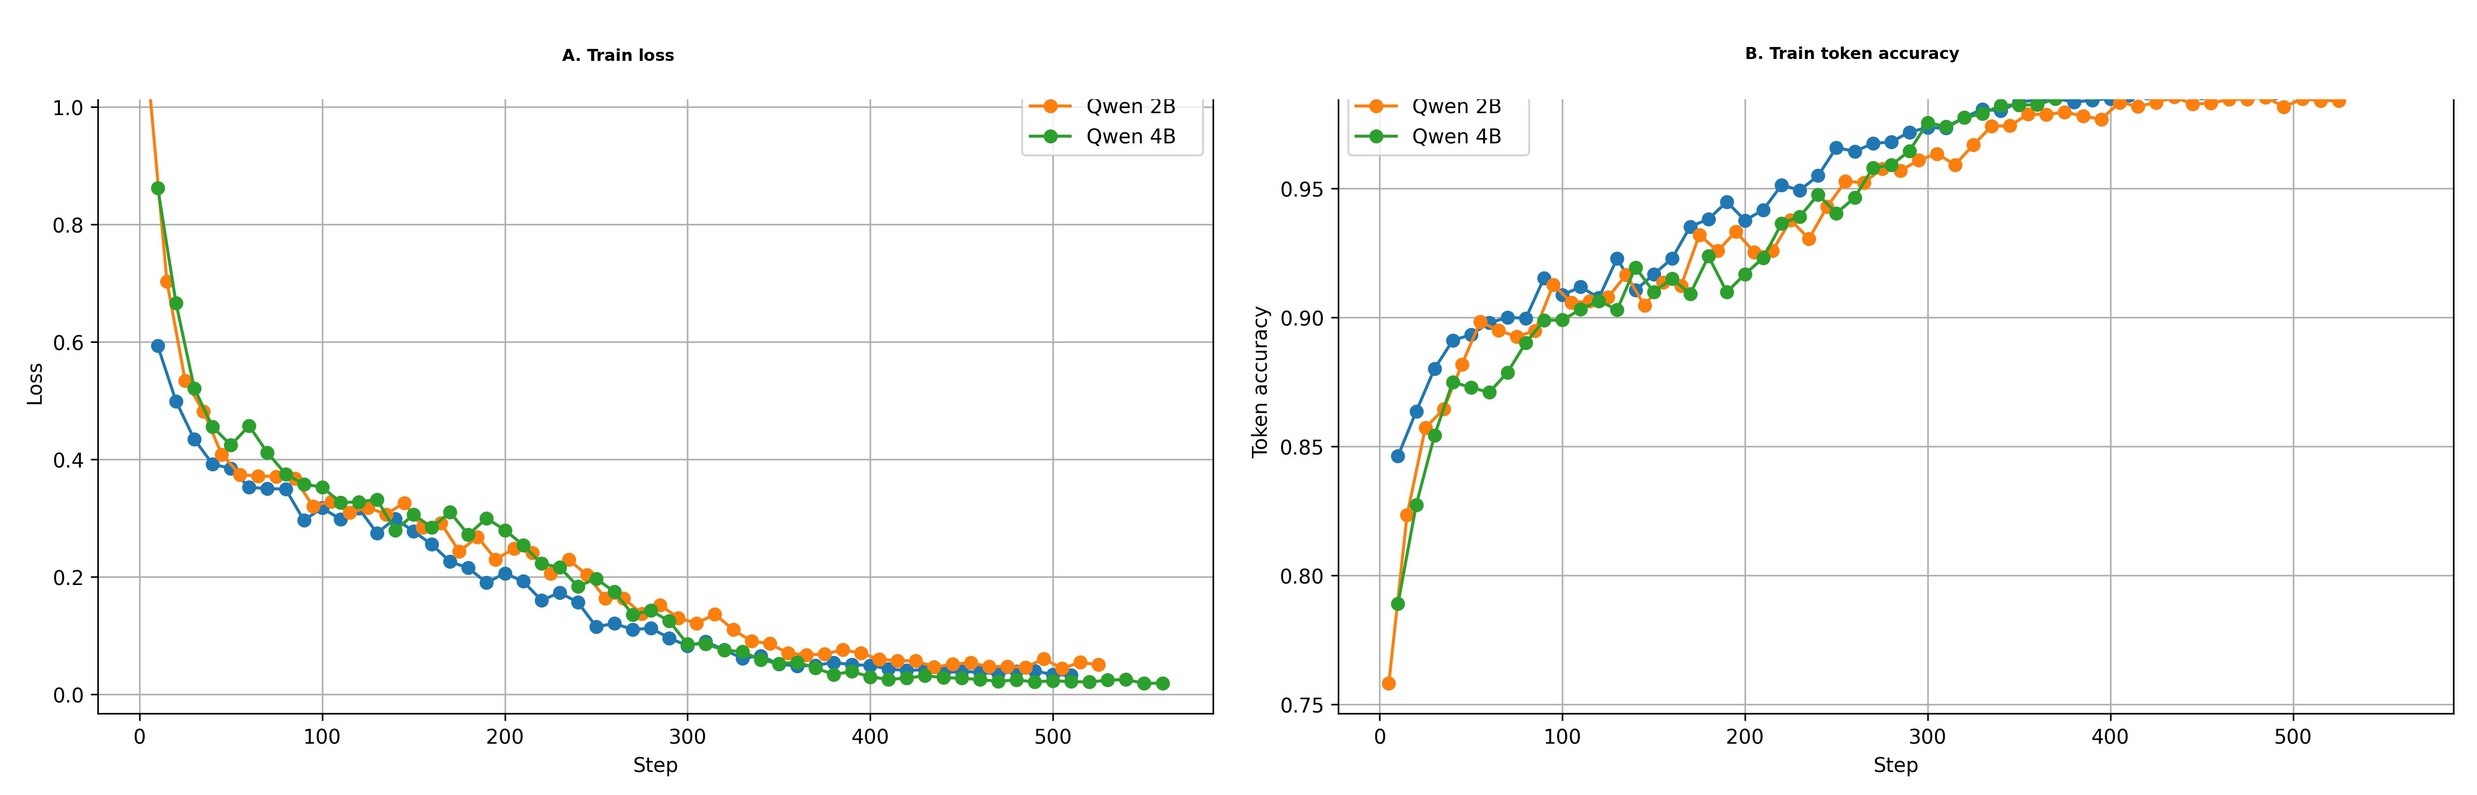
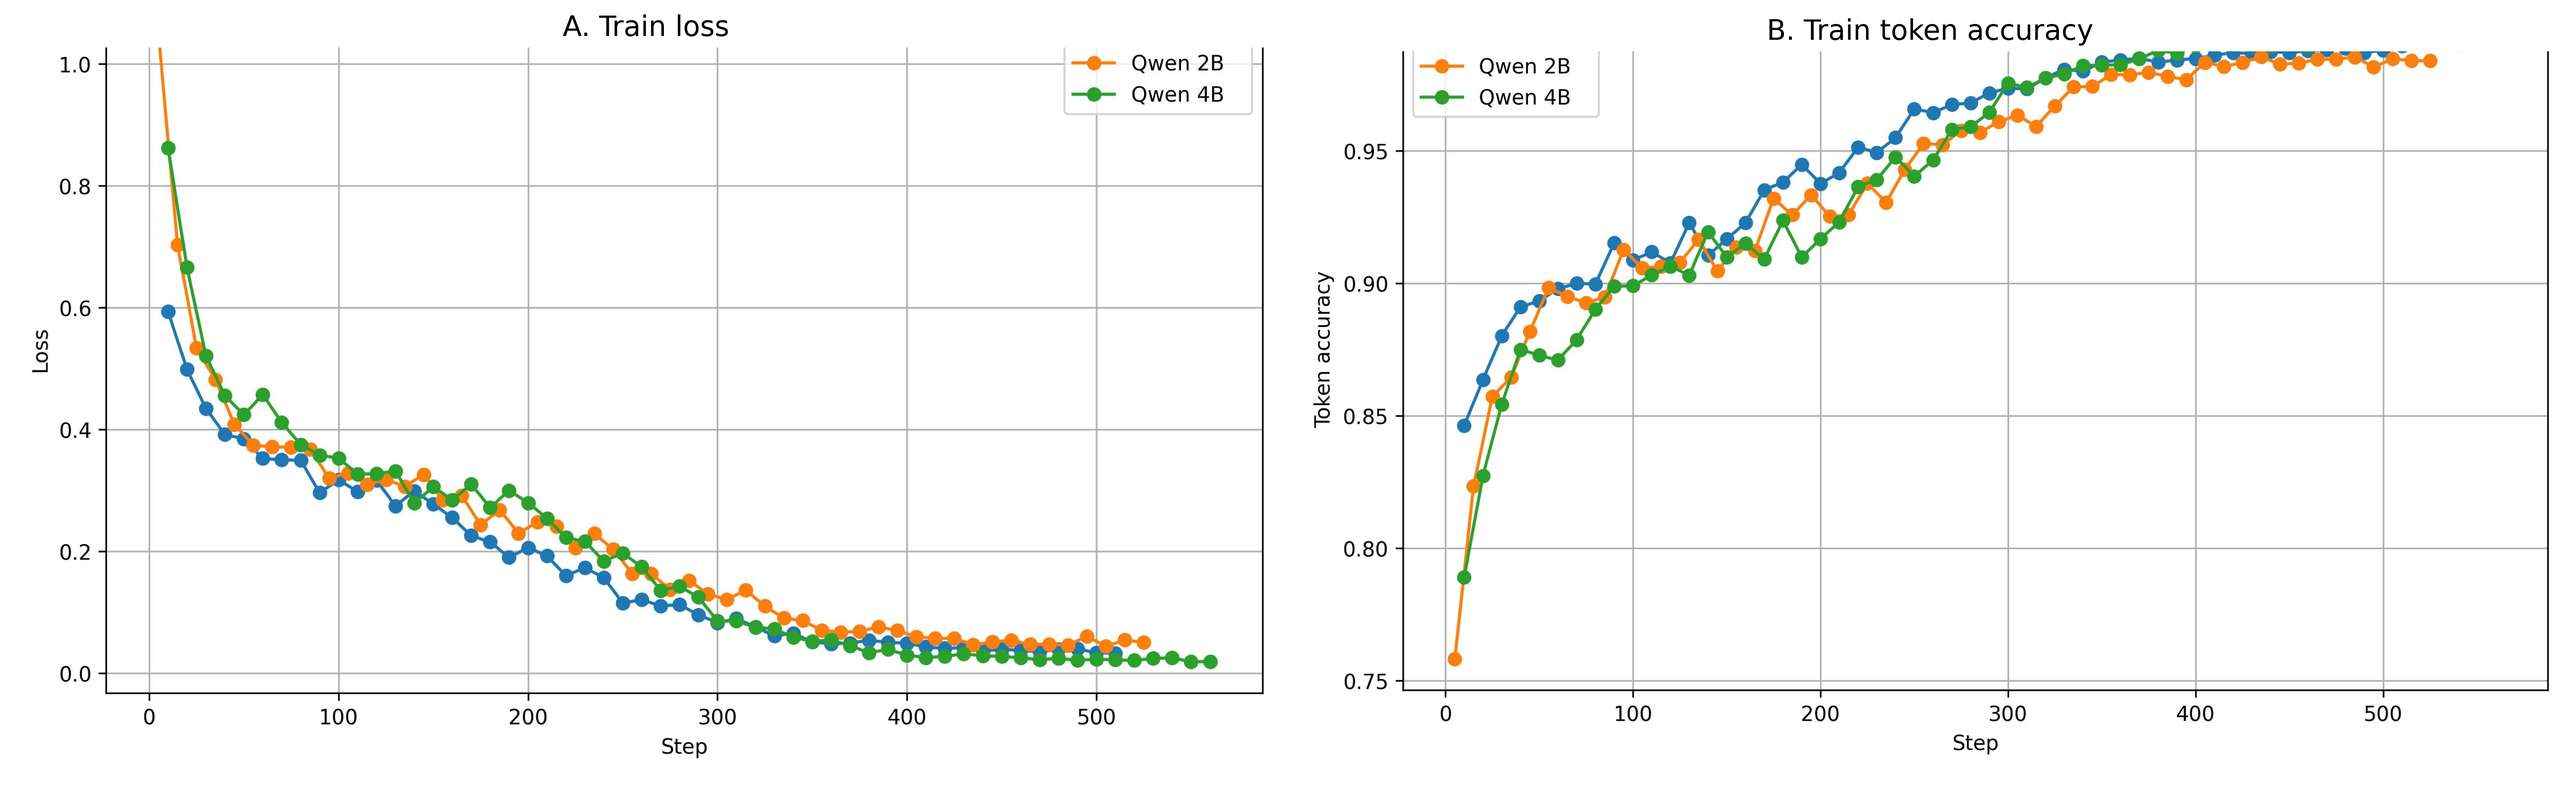
Redraw combined train curves figure v2 with matplotlib panel titles

diff --git a/scripts/combine_train_curves_side_by_side_v2.py b/scripts/combine_train_curves_side_by_side_v2.py
@@ -1,78 +1,46 @@
 from pathlib import Path
-from PIL import Image, ImageDraw, ImageFont
+from PIL import Image
+import matplotlib.pyplot as plt
 
 IN_DIR = Path("comparison")
 img1_path = IN_DIR / "comparison_train_loss_only.jpg"
 img2_path = IN_DIR / "comparison_train_token_accuracy_only.jpg"
 
-# 直接覆盖之前的 v2 输出
+# 直接覆盖原来的 v2 输出
 out_jpg = IN_DIR / "comparison_train_loss_token_accuracy_combined_v2.jpg"
 out_png = IN_DIR / "comparison_train_loss_token_accuracy_combined_v2.png"
 
 img1 = Image.open(img1_path).convert("RGB")
 img2 = Image.open(img2_path).convert("RGB")
 
-def resize_to_height(img, target_h):
-    if img.height == target_h:
-        return img
-    new_w = int(img.width * target_h / img.height)
-    return img.resize((new_w, target_h))
-
-def rewrite_title(img, new_title):
-    """
-    覆盖原图顶部标题区域，并重写标题。
-    目标效果：像 0.8B 六合一那种，A/B 直接写进图标题里。
-    """
-    draw = ImageDraw.Draw(img)
+def crop_top_title(img, frac=0.11):
     w, h = img.size
+    crop_h = int(h * frac)
+    return img.crop((0, crop_h, w, h))
 
-    # 顶部标题带区域高度，按常见 matplotlib 图大致估计
-    title_band_h = int(h * 0.12)
+# 去掉原图顶部标题区域，避免重复标题
+img1 = crop_top_title(img1, frac=0.11)
+img2 = crop_top_title(img2, frac=0.11)
 
-    # 用白色覆盖原标题区域
-    draw.rectangle([(0, 0), (w, title_band_h)], fill="white")
+# 转成 matplotlib 可画对象
+img1_arr = img1
+img2_arr = img2
 
-    # 字体
-    try:
-        font = ImageFont.truetype("DejaVuSans-Bold.ttf", 34)
-    except Exception:
-        font = ImageFont.load_default()
+fig, axes = plt.subplots(1, 2, figsize=(18, 7))
 
-    # 居中写标题
-    bbox = draw.textbbox((0, 0), new_title, font=font)
-    text_w = bbox[2] - bbox[0]
-    text_h = bbox[3] - bbox[1]
+axes[0].imshow(img1_arr)
+axes[0].set_title("A. Train loss", fontsize=14)
+axes[0].axis("off")
 
-    x = (w - text_w) // 2
-    y = max(10, (title_band_h - text_h) // 2)
+axes[1].imshow(img2_arr)
+axes[1].set_title("B. Train token accuracy", fontsize=14)
+axes[1].axis("off")
 
-    draw.text((x, y), new_title, fill="black", font=font)
-    return img
+plt.tight_layout()
 
-# 先改每张图的标题
-img1 = rewrite_title(img1, "A. Train loss")
-img2 = rewrite_title(img2, "B. Train token accuracy")
-
-# 统一高度
-target_h = max(img1.height, img2.height)
-img1 = resize_to_height(img1, target_h)
-img2 = resize_to_height(img2, target_h)
-
-# 左右拼接，不再额外加顶部总标题
-side_pad = 20
-gap = 20
-top_pad = 10
-bottom_pad = 10
-
-canvas_w = side_pad + img1.width + gap + img2.width + side_pad
-canvas_h = top_pad + target_h + bottom_pad
-
-canvas = Image.new("RGB", (canvas_w, canvas_h), "white")
-canvas.paste(img1, (side_pad, top_pad))
-canvas.paste(img2, (side_pad + img1.width + gap, top_pad))
-
-canvas.save(out_jpg, quality=95)
-canvas.save(out_png)
+fig.savefig(out_jpg, dpi=300, bbox_inches="tight")
+fig.savefig(out_png, dpi=300, bbox_inches="tight")
+plt.close(fig)
 
 print("Saved:")
 print(out_jpg)
